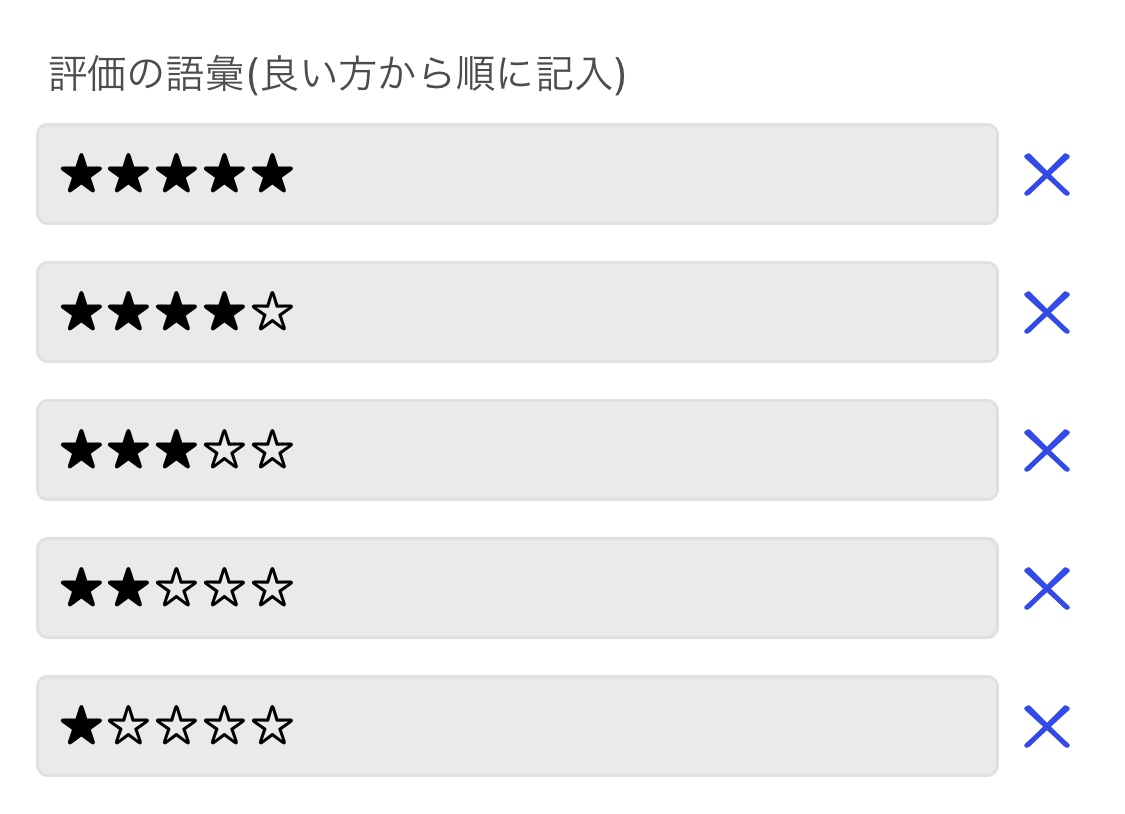
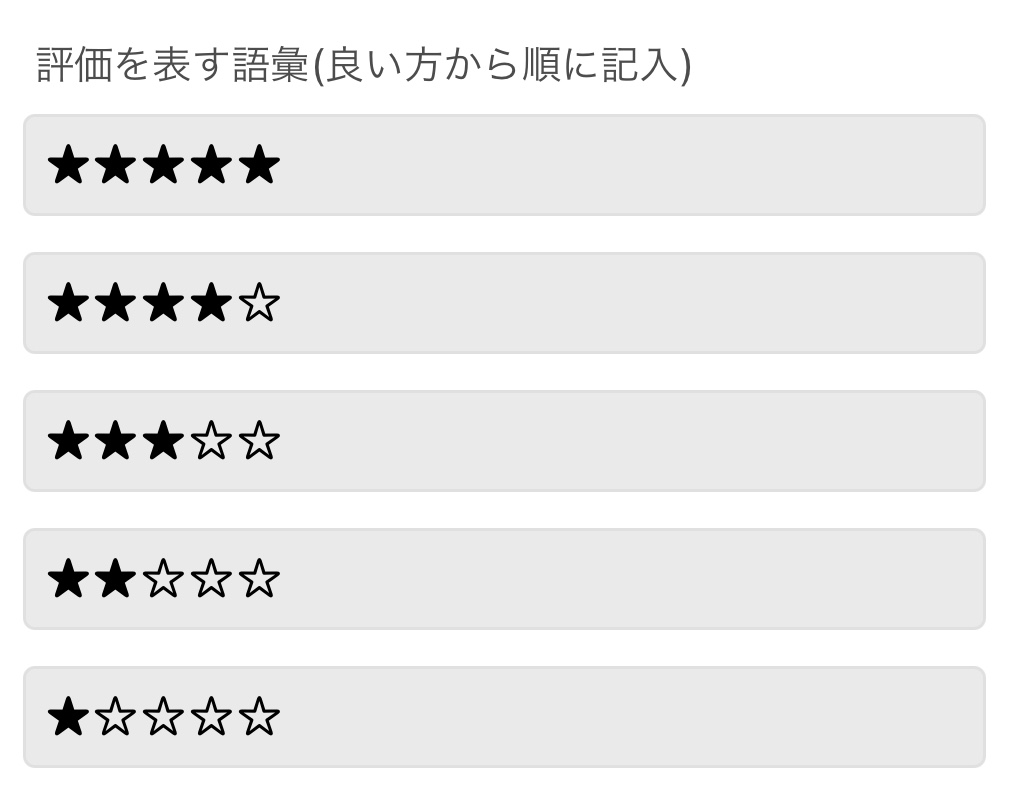
画像の余計なもの無くした

diff --git a/src/assets/css/style.css b/src/assets/css/style.css
@@ -411,7 +411,7 @@ input[type=checkbox]:checked+.primary-checkbox::after {
 }
 
 .common-language-div {
-  max-width: 400px;
+  max-width: 350px;
   margin: 20px auto;
   box-shadow: 0 5px 8px 0 rgba(0, 0, 0, .2);
 }

diff --git a/src/router/index.js b/src/router/index.js
@@ -53,7 +53,7 @@ export default new Router({
             component: news
         }
   ],
-  scrollBehaivor() {
+  scrollBehavior() {
     return { x: 0, y: 0 }
   }
 })
